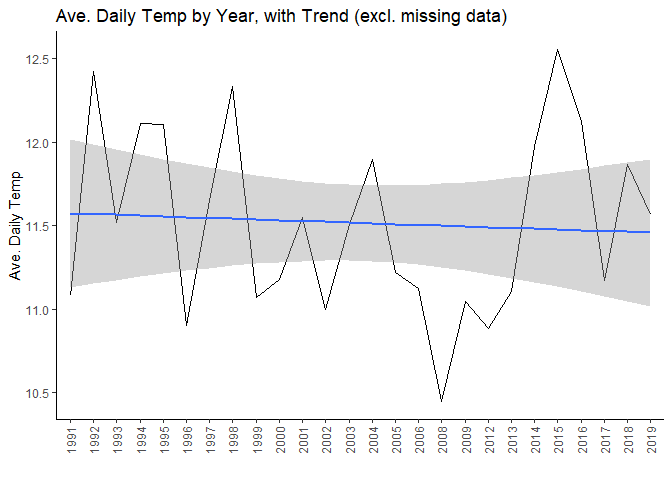
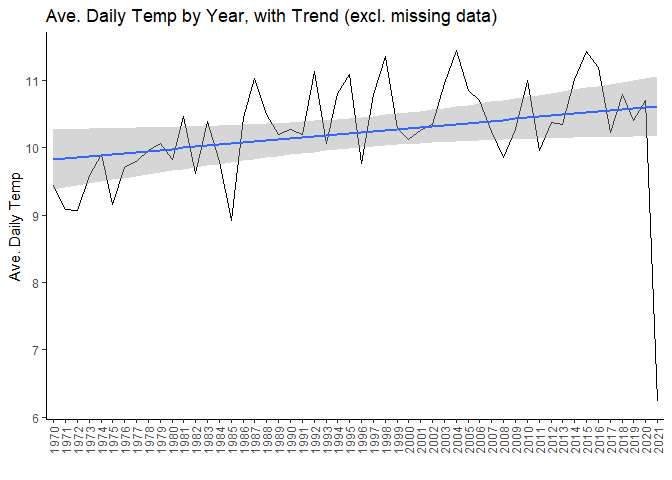
readme for github repo

diff --git a/README.md b/README.md
@@ -16,7 +16,7 @@ Data Collection
 Data is collected from Govt of Canada website:
 
 1.  search: <http://climate.weather.gc.ca/historical_data/search_historic_data_e.html>
-2.  specify station as containing 'vancouver harbour'
+2.  specify station as containing 'vancouver'; best is VANCOUVER INTL A
 3.  select 'daily', select 'year'
 4.  'Go' goes to a page to access results for year
 
@@ -24,7 +24,7 @@ Data is collected from Govt of Canada website:
 
     ## [1] "Winter" "Spring" "Summer" "Fall"
 
-**Earliest date:** *1988-01-01* <br /> **Most recent date:** *2020-03-07*
+**Earliest date:** *1970-01-01* <br /> **Most recent date:** *2021-01-08*
 
 Precipitation
 -------------
@@ -35,7 +35,7 @@ Precipitation
 
 ![](README_files/figure-markdown_github/DAILY%20CURR%20MTH%20PRECIP-1.png)
 
-Data status: Data missing.
+Data status: No data missing
 
 ### Monthly precipitation data: Averages
 
@@ -95,23 +95,25 @@ Temperature
     ## lm(formula = mean.mean ~ ynum, data = vw.temp.yr)
     ## 
     ## Residuals:
-    ##      Min       1Q   Median       3Q      Max 
-    ## -1.06271 -0.44340 -0.01888  0.45964  1.06865 
+    ##     Min      1Q  Median      3Q     Max 
+    ## -4.3887 -0.2271  0.0146  0.4724  1.0994 
     ## 
     ## Coefficients:
-    ##              Estimate Std. Error t value Pr(>|t|)
-    ## (Intercept) 16.560090  25.469955   0.650    0.522
-    ## ynum        -0.002517   0.012706  -0.198    0.845
+    ##               Estimate Std. Error t value Pr(>|t|)  
+    ## (Intercept) -20.472692  14.954661  -1.369   0.1771  
+    ## ynum          0.015382   0.007494   2.053   0.0454 *
+    ## ---
+    ## Signif. codes:  0 '***' 0.001 '**' 0.01 '*' 0.05 '.' 0.1 ' ' 1
     ## 
-    ## Residual standard error: 0.5623 on 24 degrees of freedom
-    ## Multiple R-squared:  0.001632,   Adjusted R-squared:  -0.03997 
-    ## F-statistic: 0.03923 on 1 and 24 DF,  p-value: 0.8447
+    ## Residual standard error: 0.811 on 50 degrees of freedom
+    ## Multiple R-squared:  0.07771,    Adjusted R-squared:  0.05926 
+    ## F-statistic: 4.213 on 1 and 50 DF,  p-value: 0.04537
 
 Model interpretation: <br />
 
--   Average daily temperature changing -0.0025166 degrees each yr.
--   P-value for statistical significance: 0.8446646
--   Temperature change is *not statistically significant* over this period
+-   Average daily temperature changing 0.0153817 degrees each yr.
+-   P-value for statistical significance: 0.0453698
+-   Temperature change is *statistically significant* over this period
 
 #### Look at Average Daily Maximum and Minimums for each Year
 
@@ -124,22 +126,22 @@ Linear modelling for max and min
     ## lm(formula = mean.max ~ ynum, data = vw.temp.yr)
     ## 
     ## Residuals:
-    ##      Min       1Q   Median       3Q      Max 
-    ## -1.22083 -0.36492 -0.06269  0.44222  1.23017 
+    ##     Min      1Q  Median      3Q     Max 
+    ## -5.1920 -0.2736  0.0399  0.4654  1.0775 
     ## 
     ## Coefficients:
     ##              Estimate Std. Error t value Pr(>|t|)
-    ## (Intercept) 17.572393  28.058085   0.626    0.537
-    ## ynum        -0.001481   0.013997  -0.106    0.917
+    ## (Intercept) -2.778343  16.866586  -0.165    0.870
+    ## ynum         0.008279   0.008452   0.980    0.332
     ## 
-    ## Residual standard error: 0.6195 on 24 degrees of freedom
-    ## Multiple R-squared:  0.0004662,  Adjusted R-squared:  -0.04118 
-    ## F-statistic: 0.01119 on 1 and 24 DF,  p-value: 0.9166
+    ## Residual standard error: 0.9147 on 50 degrees of freedom
+    ## Multiple R-squared:  0.01883,    Adjusted R-squared:  -0.0007932 
+    ## F-statistic: 0.9596 on 1 and 50 DF,  p-value: 0.332
 
 Model interpretation: <br />
 
--   Average daily MAX temperature changing -0.0014809 degrees each yr.
--   P-value for statistical significance: 0.9166207
+-   Average daily MAX temperature changing 0.0082795 degrees each yr.
+-   P-value for statistical significance: 0.3320093
 -   Temperature change is *not statistically significant* over this period
 
 <!-- -->
@@ -149,23 +151,25 @@ Model interpretation: <br />
     ## lm(formula = mean.min ~ ynum, data = vw.temp.yr)
     ## 
     ## Residuals:
-    ##      Min       1Q   Median       3Q      Max 
-    ## -0.89858 -0.43410  0.00637  0.48331  0.86790 
+    ##     Min      1Q  Median      3Q     Max 
+    ## -3.5647 -0.3271  0.0135  0.4832  1.2072 
     ## 
     ## Coefficients:
-    ##              Estimate Std. Error t value Pr(>|t|)
-    ## (Intercept) 13.705786  24.941836   0.550    0.588
-    ## ynum        -0.002663   0.012443  -0.214    0.832
+    ##               Estimate Std. Error t value Pr(>|t|)   
+    ## (Intercept) -38.230592  13.485235  -2.835  0.00660 **
+    ## ynum          0.022493   0.006758   3.328  0.00164 **
+    ## ---
+    ## Signif. codes:  0 '***' 0.001 '**' 0.01 '*' 0.05 '.' 0.1 ' ' 1
     ## 
-    ## Residual standard error: 0.5507 on 24 degrees of freedom
-    ## Multiple R-squared:  0.001905,   Adjusted R-squared:  -0.03968 
-    ## F-statistic: 0.0458 on 1 and 24 DF,  p-value: 0.8324
+    ## Residual standard error: 0.7314 on 50 degrees of freedom
+    ## Multiple R-squared:  0.1814, Adjusted R-squared:  0.165 
+    ## F-statistic: 11.08 on 1 and 50 DF,  p-value: 0.001645
 
 Model interpretation: <br />
 
--   Average daily MIN temperature changing -0.0026628 degrees each yr.
--   P-value for statistical significance: 0.8323547
--   Temperature change is *not statistically significant* over this period
+-   Average daily MIN temperature changing 0.0224927 degrees each yr.
+-   P-value for statistical significance: 0.0016445
+-   Temperature change is *statistically significant* over this period
 
 ### Monthly average temperature
 
